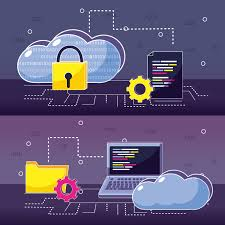
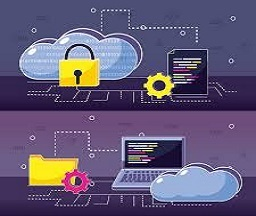
resized images and fixed spacing with floats

diff --git a/index.html b/index.html
@@ -66,7 +66,7 @@
         </div>
 
         <!-- Projects -->
-        <div class="container mb-4" id="frontend-grab">
+        <div class="container mb-4">
             <div class="row justify-content-lg-between align-items-center pb-5 pb-lg-6">
                 <div class="col-lg-5 order-lg-2 mb-2 mb-lg-0">
                     <h2 class="h3 font-weight-normal">Frontend Design</h2>
@@ -74,8 +74,8 @@
                 </div>
                 <div class="col-lg-6 order-lg-1">
                     <a href="project-4.html">
-                        <figure class="img-overlay">
-                            <img src="assets/img/frontend-graphic.png" alt="Frontend Design Graphic" class="border-dark img-thumbnail">
+                        <figure class="img-overlay" id="frontend-grab">
+                            <img src="assets/img/frontend-graphic.png" alt="Frontend Design Graphic" class="border-dark img-thumbnail" id="frontend-graphic">
                             <div class="img-hover">
                                 <p class="img-text">Get More Info</p>
                             </div>
@@ -84,14 +84,14 @@
                 </div>
             </div>
 
-            <div class="row justify-content-lg-between align-items-center pb-5 pb-lg-6" id="backend-grab">
+            <div class="row justify-content-lg-between align-items-center pb-5 pb-lg-6">
                 <div class="col-lg-5 mb-2 mb-lg-0">
                     <h2 class="h3 font-weight-normal">Backend Design</h2>
                     <p class="font-weight-light text-light">Design that meets your data storage needs.</p>
                 </div>
                 <div class="col-lg-6">
                     <a href="project-4.html">
-                        <figure class="img-overlay">
+                        <figure class="img-overlay" id="backend-grab">
                             <img src="assets/img/backend-graphic.jpg" alt="Backend Design Graphic" class="border-dark img-thumbnail">
                             <div class="img-hover">
                                 <p class="img-text">Get More Info</p>
@@ -101,14 +101,14 @@
                 </div>
             </div>
 
-            <div class="row justify-content-lg-between align-items-center pb-5 pb-lg-6" id="custom-grab">
+            <div class="row justify-content-lg-between align-items-center pb-5 pb-lg-6" >
                 <div class="col-lg-5 order-lg-2 mb-2 mb-lg-0">
                     <h2 class="h3 font-weight-normal">Customizable Features</h2>
                     <p class="font-weight-light text-secondary">Tailor your website how you want.</p>
                 </div>
                 <div class="col-lg-6 order-lg-1">
                     <a href="project-4.html">
-                        <figure class="img-overlay">
+                        <figure class="img-overlay" id="custom-grab">
                             <img src="assets/img/custom-graphic.jpg" alt="Photography landing page" class="border-dark img-thumbnail">
                             <div class="img-hover">
                                 <p class="img-text">Get More Info</p>

diff --git a/styles.css b/styles.css
@@ -1,6 +1,4 @@
-#frontend-grab {
-    width: 35%;
-}
+
 main {
     background-color: rgb(68,61,61);
 }
@@ -17,4 +15,10 @@ main {
 #contact-btn {
     border-color: whitesmoke;
     color:  rgb(211, 200, 200);
+}
+#frontend-grab, #custom-grab {
+    float: right;
+}
+#backend-grab {
+    float: left;
 }
